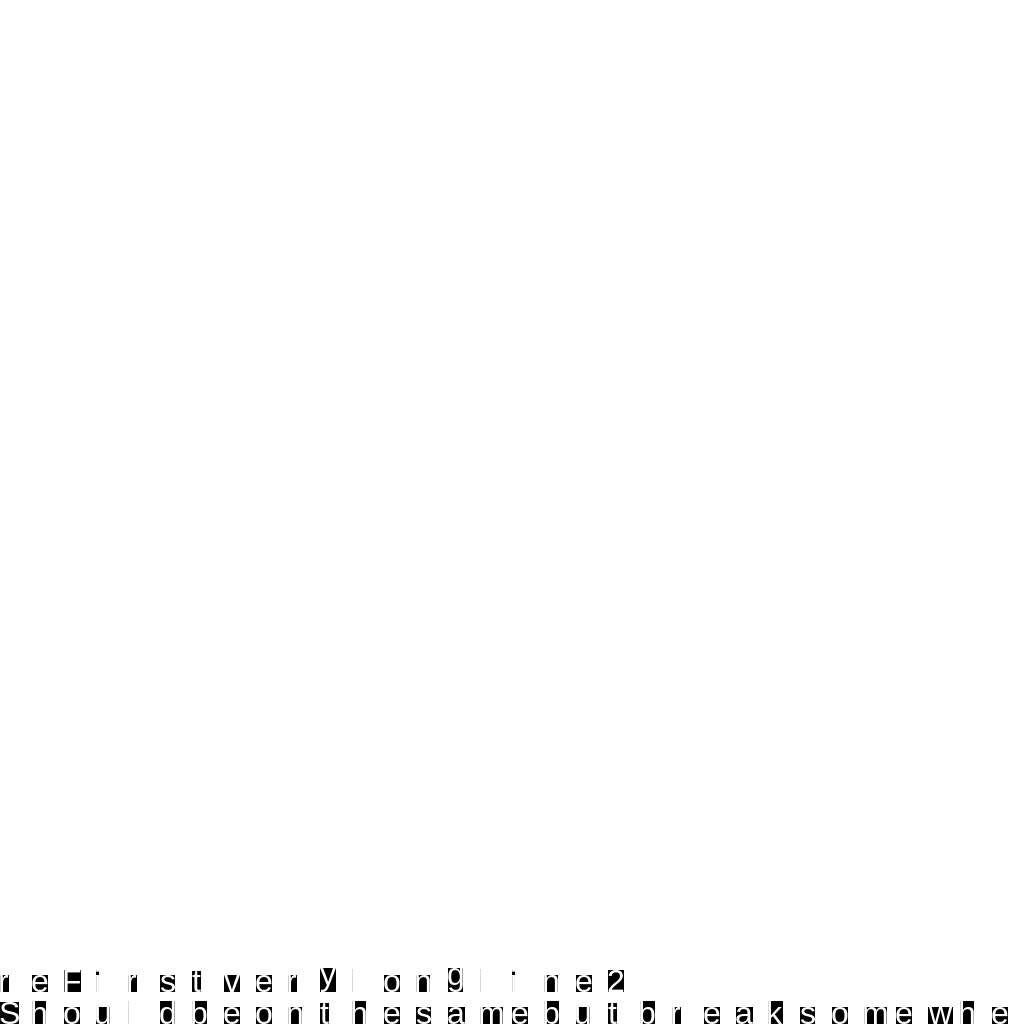
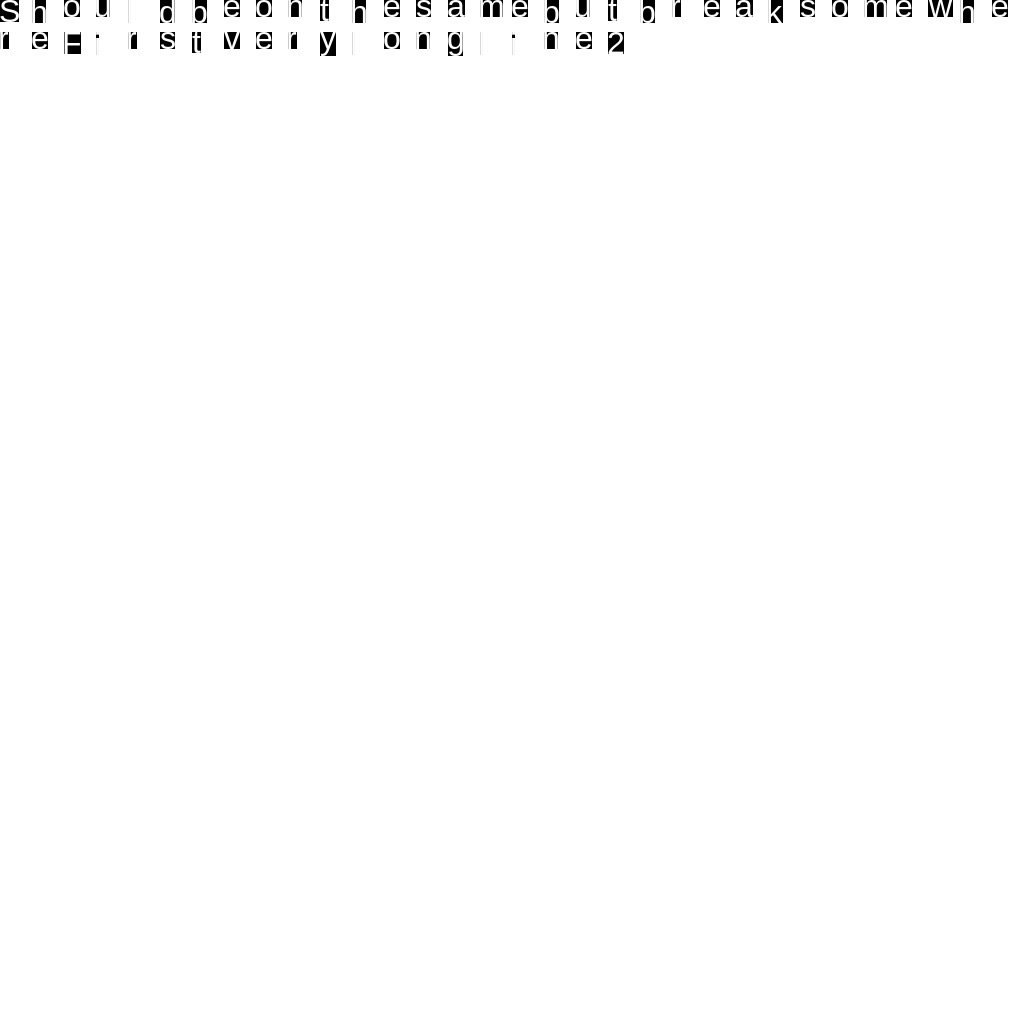
Fixed uv height not being properly calculated

diff --git a/text-rendering.go b/text-rendering.go
@@ -15,7 +15,7 @@ import (
 const PT_PER_LOGICAL_INCH = 72.0
 const PIXELS_PER_LOGICAL_INCH = 96.0 // aka. DPI
 
-const DEBUG_GLYPH_PLACEMENT = false;
+const DEBUG_GLYPH_PLACEMENT = true;
 
 const DEB_UV = 2;
 const DEB_POS = 1;
@@ -35,7 +35,7 @@ func insertGlyph(
 	verts *[]float32,
 	metrics *freetype.Metrics,
 	offset int,
-	loc Quad,
+	uvs Quad,
 ) {
 	px_x := 1.0 / float32(WIN_WIDTH)
 	px_y := 1.0 / float32(WIN_HEIGHT)
@@ -46,13 +46,20 @@ func insertGlyph(
 	char_hbear_y := float32(metrics.HorizontalBearingY)
 
 	// TODO: properly calculate baseline
-	fixed_offset := float32(30.0)
+	base_line := float32(30.0)
 
 	x := xAdv * px_x
-	y := (fixed_offset-char_hbear_y + yOffset) * px_y
+	y := (base_line-char_hbear_y + yOffset) * px_y
 
 	w := char_width * px_x
 	h := char_height * px_y
+
+	pos := Quad {
+		X: x,
+		Y: y,
+		W: w,
+		H: h,
+	}
 
 	if DEBUG_GLYPH_PLACEMENT {
 		fmt.Printf("Inserting Quad: offset: %d, i: %d\n", offset, i)
@@ -60,7 +67,7 @@ func insertGlyph(
 
 	if DEBUG_GLYPH_COMPONENTS > 0 {
 		if DEBUG_GLYPH_COMPONENTS & DEB_UV > 0 {
-			fmt.Printf("Location In GlpyhTex: %v\n", loc)
+			fmt.Printf("Location In GlpyhTex: %v\n", uvs)
 		}
 
 		fmt.Println()
@@ -69,28 +76,27 @@ func insertGlyph(
 	insertGlyphComponents(
 		verts,
 		i + offset,
-		x,
-		y,
-		w,
-		h,
-		loc,
+		pos,
+		uvs,
 	)
 }
 
 func insertGlyphComponents(
 	verts *[]float32,
 	i int,
-	x float32,
-	y float32,
-	w float32,
-	h float32,
+	pos Quad,
 	loc Quad,
 ) {
 
 	u := loc.X
 	v := loc.Y
 	uw := loc.W
-	vh := loc.W
+	vh := loc.H
+
+	x := pos.X
+	y := pos.Y
+	w := pos.W
+	h := pos.H
 
 	u_min := u
 	v_min := v
@@ -342,10 +348,6 @@ func CopyGlyphDataIntoVertexBuffer(
 ) int {
 
 	segment := placement.Segment
-
-	glyphCount := len(segment.Glyphs)
-
-	cellSlotX := int32(0)
 	xadv := placement.XOffset
 	coi := 0
 
@@ -381,16 +383,18 @@ func CopyGlyphDataIntoVertexBuffer(
 		vSize := 1.0/cellHeight * heightRatio
 	
 		uOffset := float32(cx)*float32(32.0/1024.0)
-		vOffset := 1.0 - float32(cy)*float32(32.0/1024.0) - vSize
+		vOffset := float32(cy)*float32(32.0/1024.0)
 
-		loc := Quad {
+		uvs := Quad {
 			X: uOffset,
 			Y: vOffset,
 			W: uSize,
 			H: vSize,
 		}
 
-		insertGlyph(xadv, placement.YOffset, coi, &vertices, metrics, offset, loc)
+		fmt.Printf("uvs: %v\n", uvs)
+
+		insertGlyph(xadv, placement.YOffset, coi, &vertices, metrics, offset, uvs)
 		cid++
 
 		if DEBUG_GLYPH_PLACEMENT {
@@ -399,11 +403,9 @@ func CopyGlyphDataIntoVertexBuffer(
 
 		xadv += g.XAdvance
 		coi += COMPS_PER_GLYPH
-
-		cellSlotX++
 	}
 
-	return glyphCount * VERTS_PER_GLYPH
+	return len(segment.Glyphs) * VERTS_PER_GLYPH
 }
 
 func FontScaleFactor(font *truetype.Font, m Metric, size Sp) float32 {
@@ -508,7 +510,6 @@ func RenderText(
 		offset += len(p.Segment.Glyphs) * COMPS_PER_GLYPH
 
 		fmt.Println("-----")
-		//fmt.Printf("%v\n", vertices)
 	}
 
 	makeSegmentVaos(vertices)

diff --git a/gl.go b/gl.go
@@ -226,7 +226,8 @@ func (c *GlyphView) IntoCell(
 	h := int32(ih)
 
 	x := cx*cw 
-	y := t.height - cy*ch - h
+//	y := t.height - cy*ch - h
+	y := cy*ch
 
 	gl.TexSubImage2D(
 		t.target,
